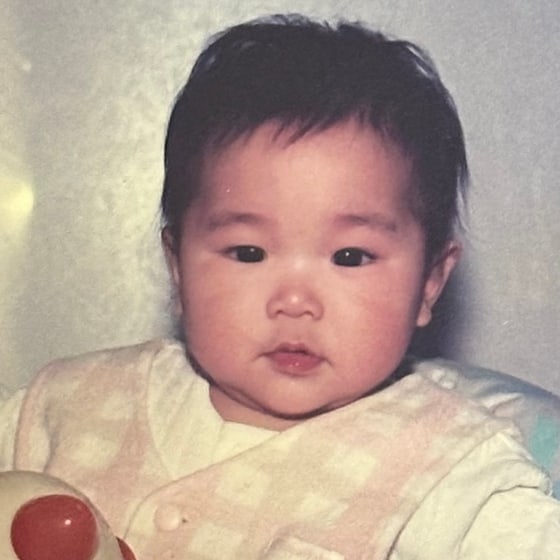
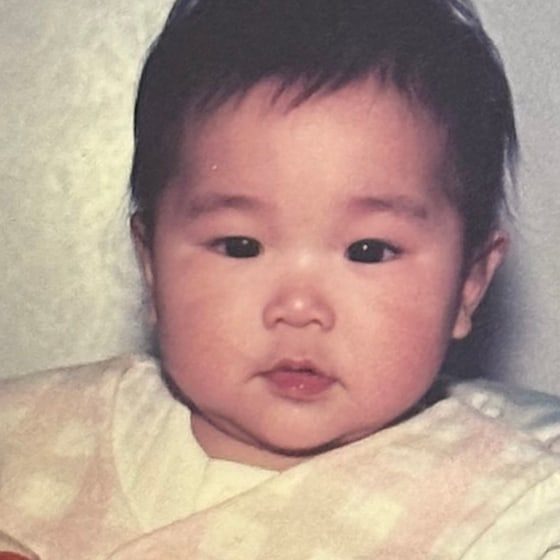
홈 버튼 크기와 아기 사진 크롭 조정

diff --git a/components/RotatingHomeButton.module.css b/components/RotatingHomeButton.module.css
@@ -4,19 +4,19 @@
   right: clamp(24px, 3vw, 48px);
   z-index: 20;
   display: flex;
-  gap: 12px;
+  gap: 10px;
   align-items: center;
   color: var(--color-text);
   text-decoration: none;
 }
 
 .label {
-  padding: 15px 20px;
+  padding: 12px 16px;
   border: 1px solid #292929;
   border-radius: 12px;
   background: #111111;
   font-family: var(--font-display);
-  font-size: 1em;
+  font-size: 0.9em;
   font-weight: 750;
   line-height: 1.2;
   white-space: nowrap;
@@ -27,9 +27,9 @@
 
 .imageFrame {
   position: relative;
-  width: 72px;
-  height: 72px;
-  flex: 0 0 72px;
+  width: 64px;
+  height: 64px;
+  flex: 0 0 64px;
   overflow: hidden;
   border-radius: 50%;
   opacity: 0;
@@ -77,19 +77,19 @@ a.button:focus-visible .imageFrame {
   .button {
     top: 18px;
     right: 20px;
-    gap: 9px;
+    gap: 8px;
   }
 
   .label {
-    padding: 11px 14px;
+    padding: 9px 12px;
     border-radius: 10px;
-    font-size: 0.86em;
+    font-size: 0.8em;
   }
 
   .imageFrame {
-    width: 54px;
-    height: 54px;
-    flex-basis: 54px;
+    width: 48px;
+    height: 48px;
+    flex-basis: 48px;
   }
 }
 

diff --git a/app/layout.tsx b/app/layout.tsx
@@ -1,5 +1,4 @@
 import type { Metadata } from "next";
-import { CatPawTrail } from "@/components/CatPawTrail";
 import { zalandoSansExpanded, pretendard } from "./fonts";
 import "./globals.css";
 
@@ -17,7 +16,6 @@ export default function RootLayout({ children }: LayoutProps<"/">) {
     >
       <body>
         {children}
-        <CatPawTrail />
       </body>
     </html>
   );

diff --git a/components/RotatingHomeButton.tsx b/components/RotatingHomeButton.tsx
@@ -46,8 +46,8 @@ export function RotatingHomeButton() {
             key={src}
             src={src}
             alt=""
-            width={72}
-            height={72}
+            width={64}
+            height={64}
             priority={index === 0}
             className={`${styles.photo} ${index === activeIndex ? styles.photoActive : ""}`}
           />
